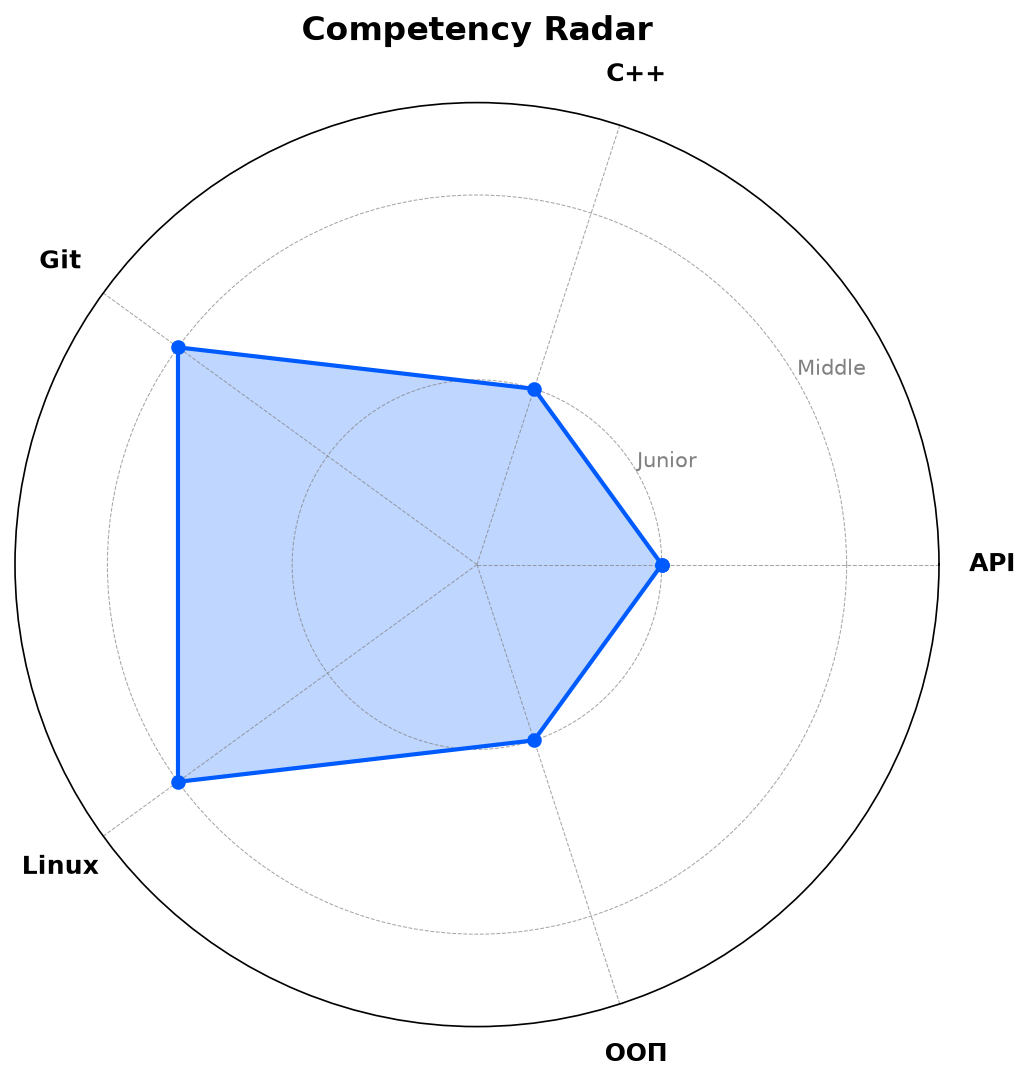
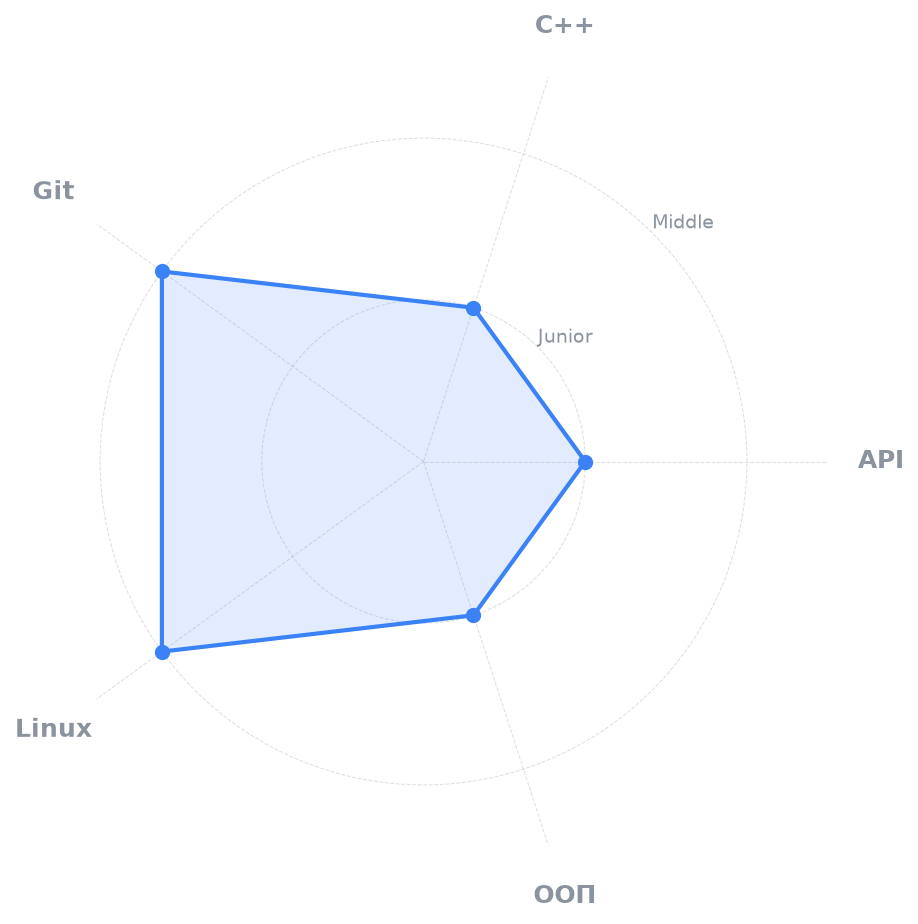
Auto-update certificates

diff --git a/README.md b/README.md
@@ -111,24 +111,28 @@ I specialize in low-level and server-side development, building automations, and
 
 <!-- HHCERTS_START -->
 
-<table>
+<table style="border: none; width: 100%; table-layout: fixed;">
   <tr>
-    <td valign="top" width="50%">
-      <table>
+    <td valign="top" width="50%" style="border: none; padding-right: 20px;">
+      <table style="border: none; width: 100%; height: 100%; border-collapse: collapse;">
         <thead>
-          <tr><th>Competency</th><th>Level</th><th>PDF</th></tr>
+          <tr>
+            <th align="left" style="border: none; padding: 12px 0; color: #8b949e; font-size: 14px; border-bottom: 2px solid rgba(139, 148, 158, 0.2);">Competency</th>
+            <th align="left" style="border: none; padding: 12px 0; color: #8b949e; font-size: 14px; border-bottom: 2px solid rgba(139, 148, 158, 0.2);">Level</th>
+            <th align="center" style="border: none; padding: 12px 0; color: #8b949e; font-size: 14px; border-bottom: 2px solid rgba(139, 148, 158, 0.2);">PDF</th>
+          </tr>
         </thead>
-        <tbody>
-          <tr><td>API</td><td>🟡 Junior</td><td><a href="./certificates/files/API_Сертификат_ИТ_компетенций_форма_1.pdf">📄 PDF</a></td></tr>
-          <tr><td>C++</td><td>🟡 Junior</td><td><a href="./certificates/files/plusplus_Сертификат_ИТ_компетенций_форма_1.pdf">📄 PDF</a></td></tr>
-          <tr><td>Git</td><td>🟢 Middle</td><td><a href="./certificates/files/Git_Сертификат_ИТ_компетенций_форма_1.pdf">📄 PDF</a></td></tr>
-          <tr><td>Linux</td><td>🟢 Middle</td><td><a href="./certificates/files/Linux_Сертификат_ИТ_компетенций_форма_1.pdf">📄 PDF</a></td></tr>
-          <tr><td>ООП</td><td>🟡 Junior</td><td><a href="./certificates/files/OOP_Сертификат_ИТ_компетенций_форма_1.pdf">📄 PDF</a></td></tr>
+        <tbody style="height: 100%;">
+          <tr><td style="border: none; padding: 16px 0; border-bottom: 1px solid rgba(139, 148, 158, 0.2);"><b>API</b></td><td style="border: none; padding: 16px 0; border-bottom: 1px solid rgba(139, 148, 158, 0.2);">🟡 Junior</td><td align="center" style="border: none; padding: 16px 0; border-bottom: 1px solid rgba(139, 148, 158, 0.2);"><a href="./certificates/files/API_Сертификат_ИТ_компетенций_форма_1.pdf" style="text-decoration: none; white-space: nowrap;">📄 PDF</a></td></tr>
+          <tr><td style="border: none; padding: 16px 0; border-bottom: 1px solid rgba(139, 148, 158, 0.2);"><b>C++</b></td><td style="border: none; padding: 16px 0; border-bottom: 1px solid rgba(139, 148, 158, 0.2);">🟡 Junior</td><td align="center" style="border: none; padding: 16px 0; border-bottom: 1px solid rgba(139, 148, 158, 0.2);"><a href="./certificates/files/plusplus_Сертификат_ИТ_компетенций_форма_1.pdf" style="text-decoration: none; white-space: nowrap;">📄 PDF</a></td></tr>
+          <tr><td style="border: none; padding: 16px 0; border-bottom: 1px solid rgba(139, 148, 158, 0.2);"><b>Git</b></td><td style="border: none; padding: 16px 0; border-bottom: 1px solid rgba(139, 148, 158, 0.2);">🟢 Middle</td><td align="center" style="border: none; padding: 16px 0; border-bottom: 1px solid rgba(139, 148, 158, 0.2);"><a href="./certificates/files/Git_Сертификат_ИТ_компетенций_форма_1.pdf" style="text-decoration: none; white-space: nowrap;">📄 PDF</a></td></tr>
+          <tr><td style="border: none; padding: 16px 0; border-bottom: 1px solid rgba(139, 148, 158, 0.2);"><b>Linux</b></td><td style="border: none; padding: 16px 0; border-bottom: 1px solid rgba(139, 148, 158, 0.2);">🟢 Middle</td><td align="center" style="border: none; padding: 16px 0; border-bottom: 1px solid rgba(139, 148, 158, 0.2);"><a href="./certificates/files/Linux_Сертификат_ИТ_компетенций_форма_1.pdf" style="text-decoration: none; white-space: nowrap;">📄 PDF</a></td></tr>
+          <tr><td style="border: none; padding: 16px 0; border-bottom: 1px solid rgba(139, 148, 158, 0.2);"><b>ООП</b></td><td style="border: none; padding: 16px 0; border-bottom: 1px solid rgba(139, 148, 158, 0.2);">🟡 Junior</td><td align="center" style="border: none; padding: 16px 0; border-bottom: 1px solid rgba(139, 148, 158, 0.2);"><a href="./certificates/files/OOP_Сертификат_ИТ_компетенций_форма_1.pdf" style="text-decoration: none; white-space: nowrap;">📄 PDF</a></td></tr>
         </tbody>
       </table>
     </td>
-    <td valign="top" width="50%">
-      <img src="./certificates/radar.png?v=6494e21f" alt="Competency Radar" width="100%" />
+    <td valign="top" width="50%" style="border: none; text-align: center;">
+      <img src="./certificates/radar.png?v=1d907dee" alt="Competency Radar" style="width: 100%; max-width: 450px; height: auto; display: inline-block;" />
     </td>
   </tr>
 </table>
